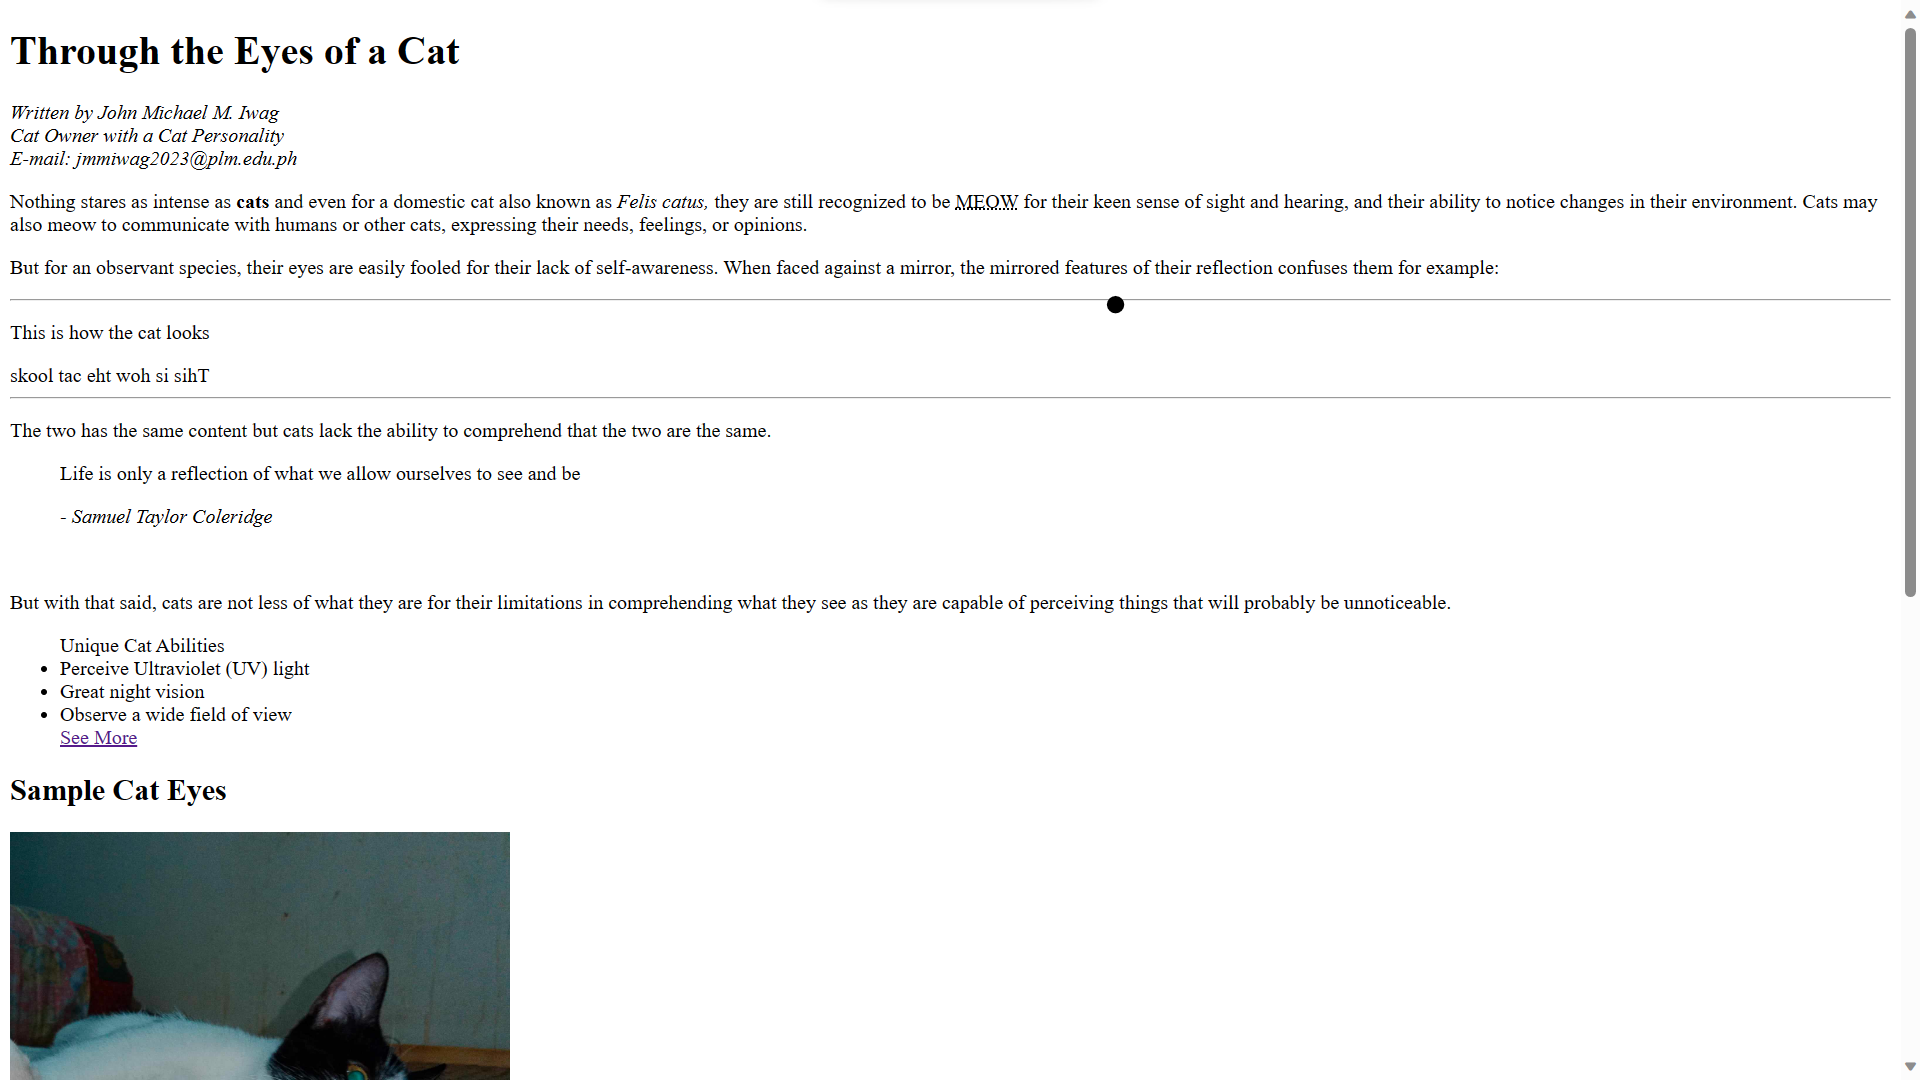
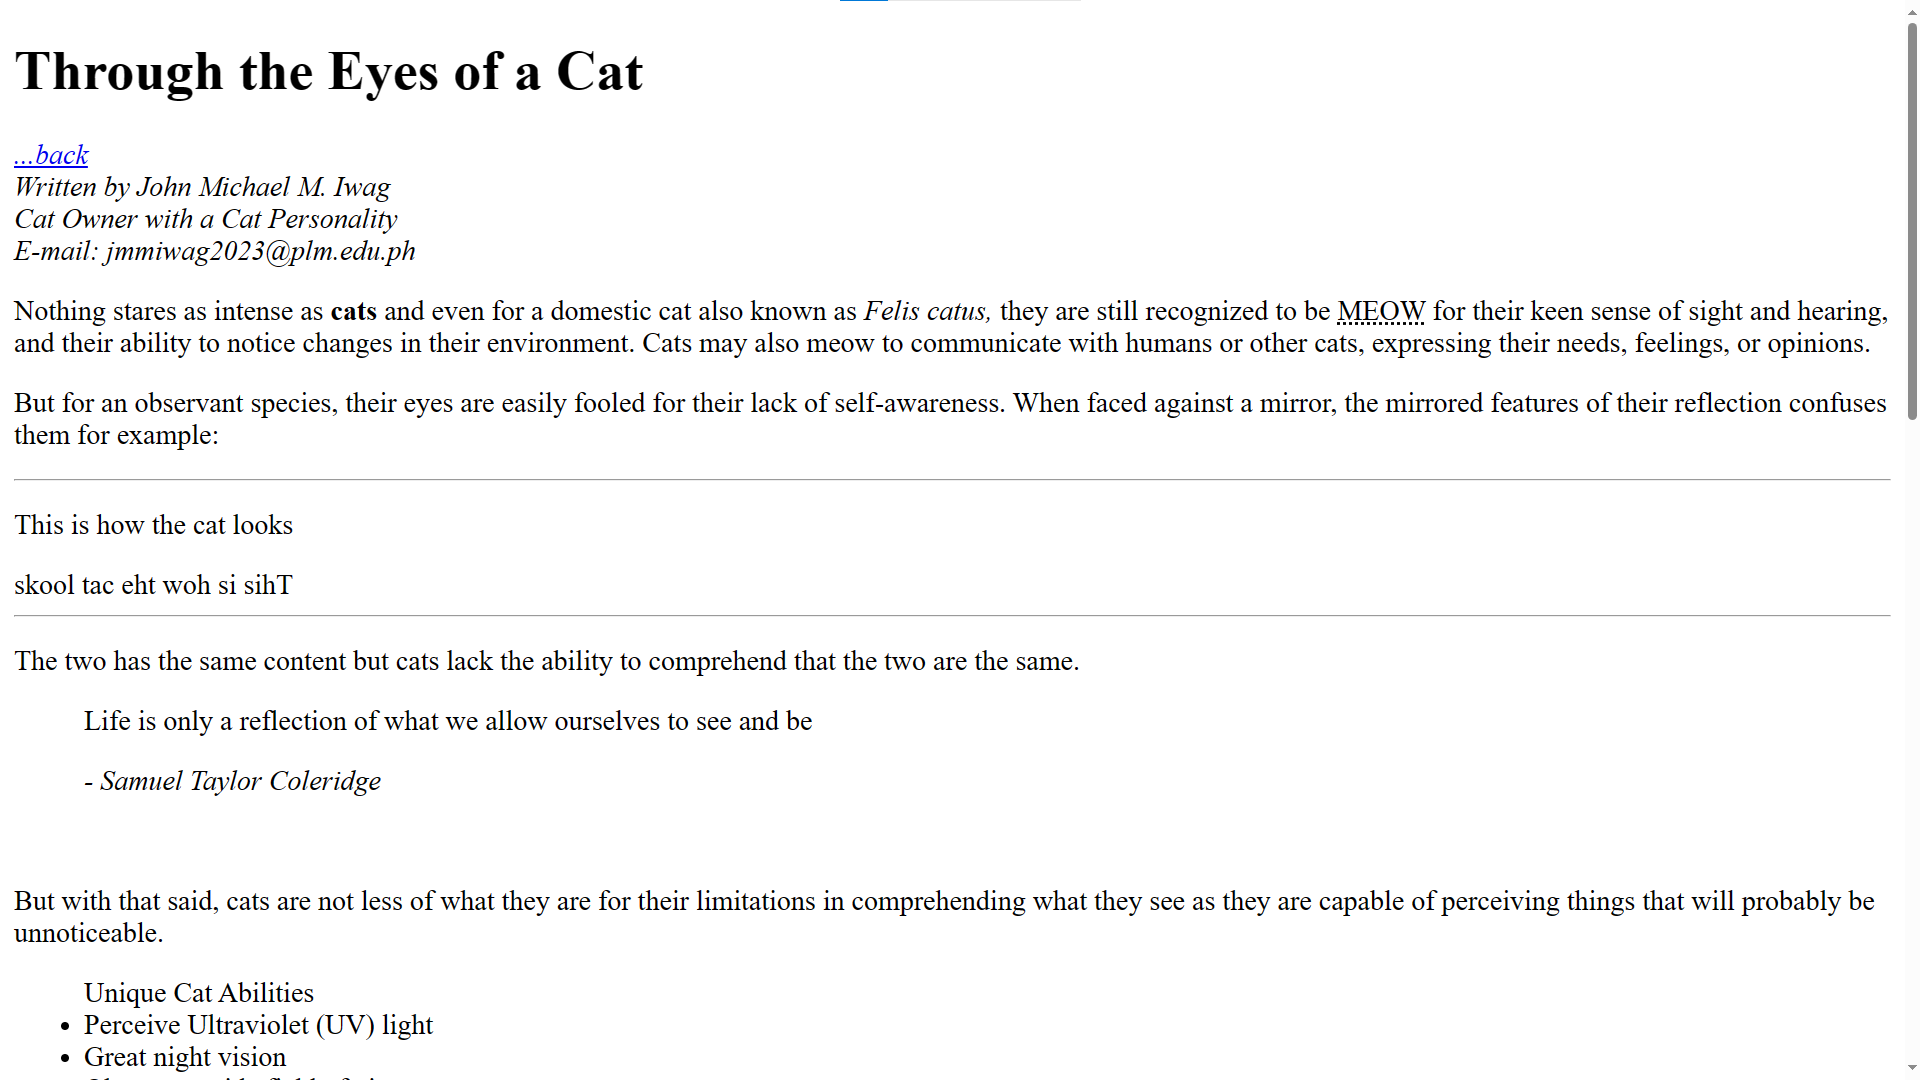
update1

Changed region(s): [[0.0, 0.0306, 1.0, 0.55], [0.0, 0.5194, 0.9688, 1.0]]

diff --git a/quiz2.html b/quiz2.html
@@ -1,7 +1,7 @@
 <!DOCTYPE html>
 <html>
   <head>
-    <base href="https://ijmplm.github.io/backup/">
+    <!--<base href="https://ijmplm.github.io/backup/">-->
     <link rel="stylesheet" href="nav-foot.css">
     <link rel="stylesheet" href="quiz2.css">
 
@@ -15,37 +15,39 @@
         <li><a href="quiz2.html#contact">Contact</a></li>
       </ul>
     </nav>
-    <div class="home">
-      <img src="FBCPInc.png" class="background-image">
-      <div class="box">
-        <div class="card">
-          <img src="quiz1preview.png">
+    <div class="content">
+      <div class="home">
+        <img src="FBCPInc.png" class="background-image">
+        <div class="box">
+          <div class="card">
+            <img src="quiz1preview.png">
+          </div>
+          <div class="overlay"><a href="quiz1.html">Quiz 1<br>Class of BSCS 1-1</a></div>
         </div>
-        <div class="overlay"><a href="quiz1.html">Quiz 1<br>Class of BSCS 1-1</a></div>
-      </div>
-      <div class="box">
-        <div class="card">
-          <img src="activity1preview.png">
+        <div class="box">
+          <div class="card">
+            <img src="activity1preview.png">
+          </div>
+          <div class="overlay"><a href="activity1.html">Activity 1<br>Cat Eyes</a></div>
         </div>
-        <div class="overlay"><a href="activity1.html">Activity 1<br>Cat Eyes</a></div>
-      </div>
-      <div class="box">
-        <div class="card">
-          <img src="activity2preview.png">
+        <div class="box">
+          <div class="card">
+            <img src="activity2preview.png">
+          </div>
+          <div class="overlay"><a href="activity2.html">Activity 2<br>Dictionary</a></div>
         </div>
-        <div class="overlay"><a href="activity2.html">Activity 2<br>Dictionary</a></div>
-      </div>
-      <div class="box">
-        <div class="card">
-          <img src="quiz1preview.png">
+        <div class="box">
+          <div class="card">
+            <img src="activity3preview.png">
+          </div>
+          <div class="overlay"><a href="activity3.html">Activity 3<br>Box Model</a></div>
         </div>
-        <div class="overlay"><a href="activity3.html">Activity 3<br>Box Model</a></div>
-      </div>
-      <div class="box">
-        <div class="card">
-          <img src="quiz1preview.png">
+        <div class="box">
+          <div class="card">
+            <img src="activity4preview.png">
+          </div>
+          <div class="overlay"><a href="activity4.html">Activity 4<br>Button Gallery</a></div>
         </div>
-        <div class="overlay"><a href="activity4.html">Activity 4<br>Button Gallery</a></div>
       </div>
     </div>
     <footer id="contact">

diff --git a/quiz1.html b/quiz1.html
@@ -3,6 +3,7 @@
 <html>
     <head>
         <title>Class of BSCS 1-1</title>
+        <base href="https://ijmplm.github.io/backup/">
     </head>
     <body>
         <header>
@@ -13,6 +14,7 @@
                 F2F class days: Mon, Tue, Thu, Sat, Sun
             </address>
             <nav>
+                <a href="quiz2">...back</a><br>
                 <a href="#classList">Class List</a><br>
                 <a href="#requirements">Qualifications</a><br>
                 <a href="#survey">Survey</a>

diff --git a/activity3.html b/activity3.html
@@ -2,7 +2,7 @@
 
 <html>
     <head>
-        <<base href="https://ijmplm.github.io/backup/">
+        <base href="https://ijmplm.github.io/backup/">
         <link rel="stylesheet" href="activity3.css  ">
         <link rel="stylesheet" href="nav-foot.css">
         <title>Activity 3 - Box Model</title>

diff --git a/activity2.html b/activity2.html
@@ -2,8 +2,10 @@
 <html>
 <head>
   <title>Activity 2- Dictionary</title>
+  <base href="https://ijmplm.github.io/backup/">
 </head>
 <body>
+  <a href="quiz2">...back</a><br>
   <dfn><h1>Code</h1></dfn>
   <dt>
     <dl><b>noun</b>, plural <em>codes</em></dl>

diff --git a/activity1.html b/activity1.html
@@ -9,6 +9,7 @@
 <body>
   <h1>Through the Eyes of a Cat</h1>
   <address>
+    <a href="quiz2">...back</a><br>
     Written by John Michael M. Iwag<br>
     Cat Owner with a Cat Personality<br>
     E-mail: jmmiwag2023@plm.edu.ph

diff --git a/quiz2.css b/quiz2.css
@@ -68,6 +68,15 @@ body {
   transition: opacity 0.3s ease;
 }
 
+.overlay a {
+  text-decoration: none;
+  color: white;
+}
+
 .box:hover .overlay {
   opacity: 1;
+}
+
+.overlay:visited a {
+  text-decoration: none;
 }
